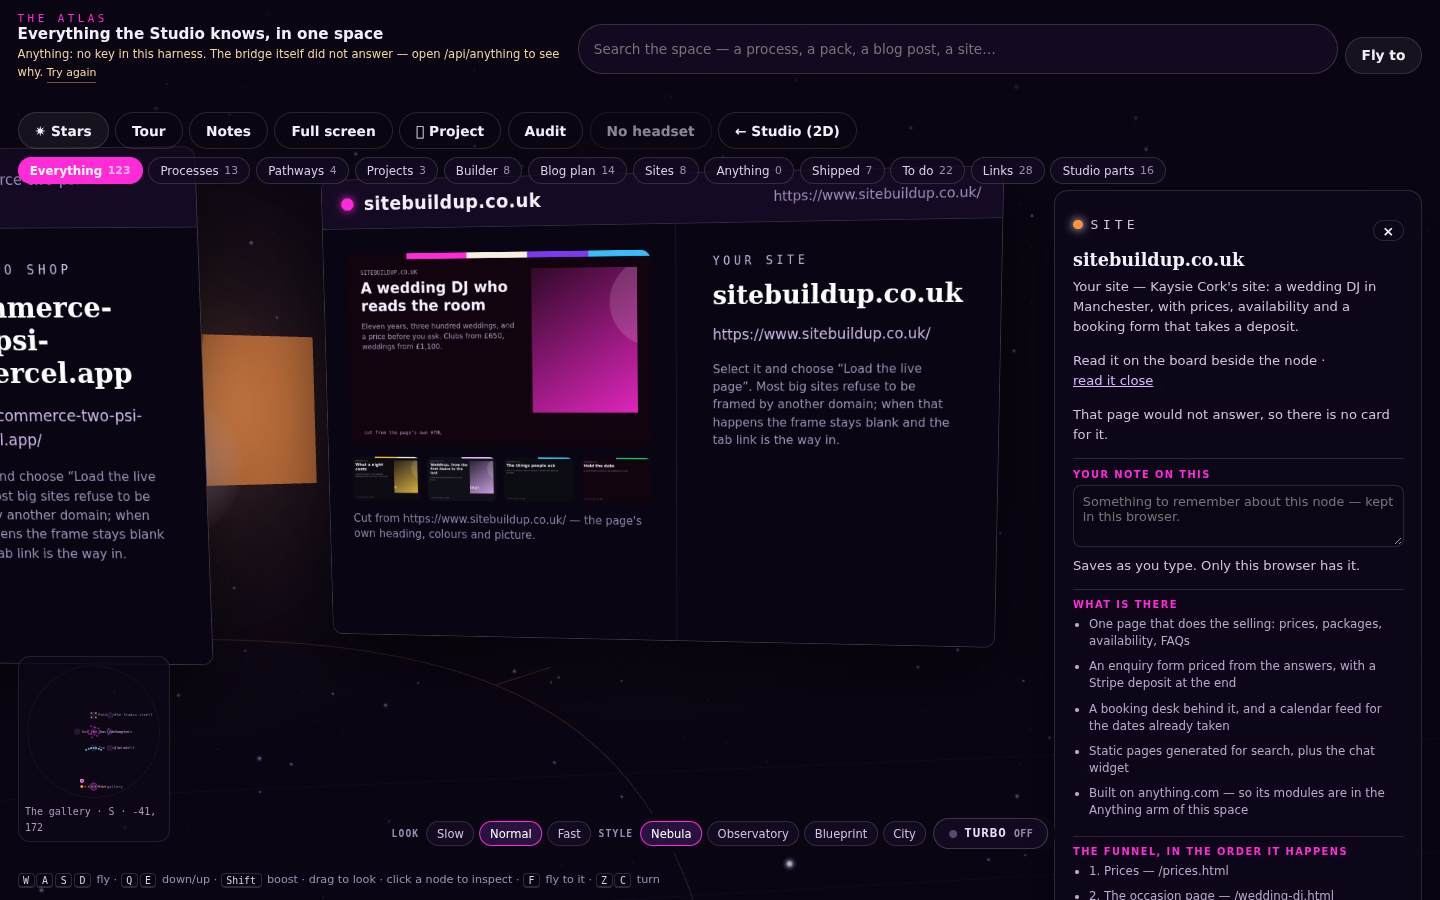
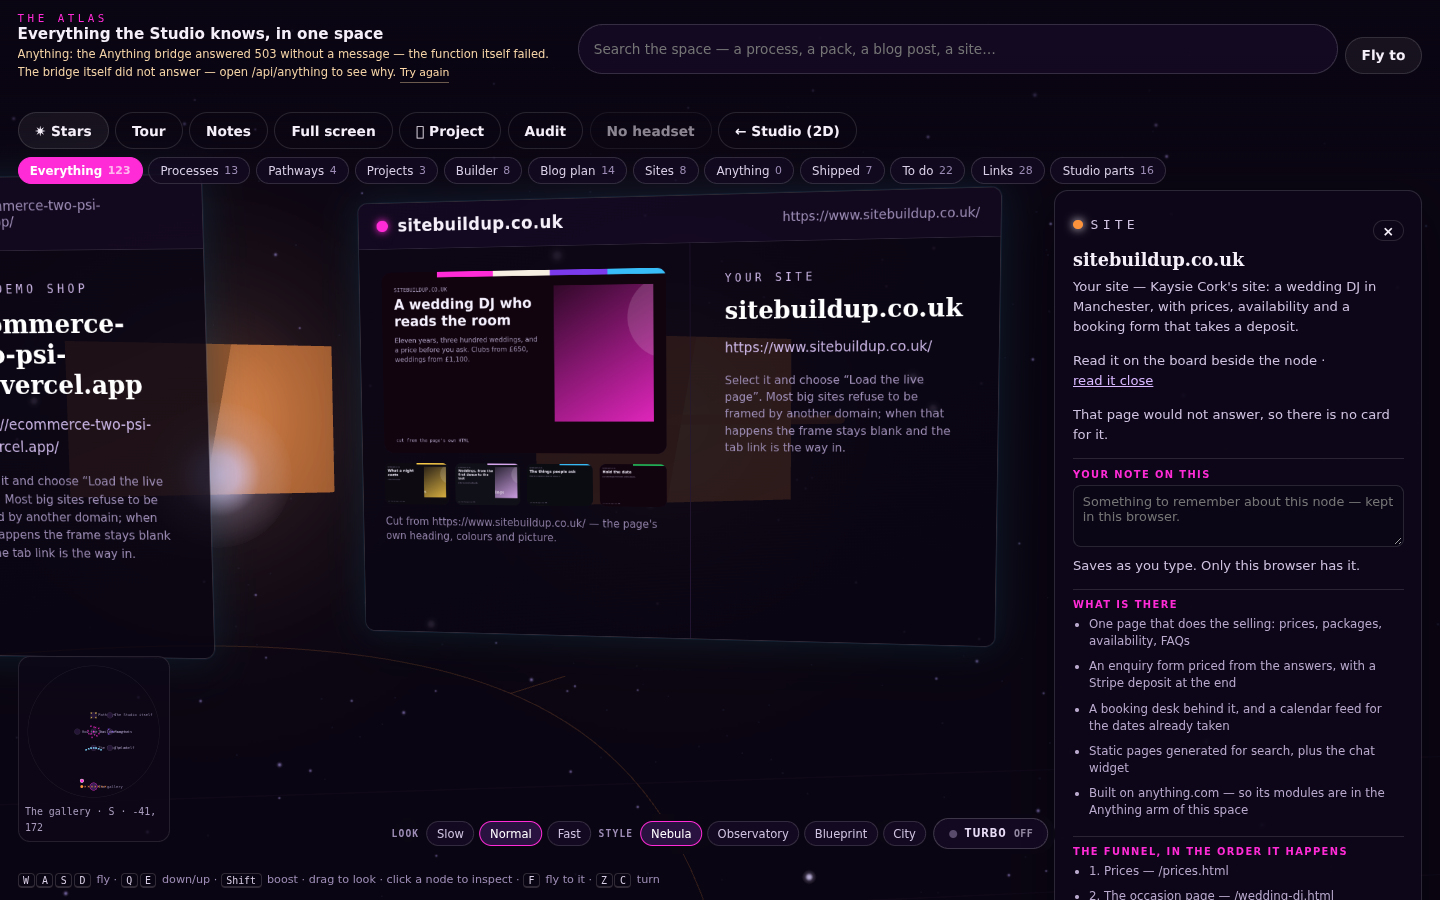
Holograms, not blocks: briefs wake with distance, panels become glass
The 14 blog-plan briefs were opaque cards drawn with depthTest off, so at any
distance they stacked into a wall of slabs in front of the stars. The gallery
panels were 93% opaque and fenced off the south arm.

- A brief is now glass: a transparent canvas with a diagonal wash, a lit rim in
  the kind's colour, depth-tested so it sits in the space instead of over it,
  and opacity that runs from 0.1 at 154 units to 1 at 34 — an outline in the
  dark until you fly up to it.
- Gallery panels are glass too: translucent frame with a cyan rim glow, and
  slightly smaller. The plate inside stays opaque on purpose: the frame is
  glass, the page is a page.
- A project's own space is dark glass over the space you came from, with a
  blurred backdrop, so opening a star reads as stepping inside it rather than
  leaving the room.

Nothing renamed, nothing moved, nothing removed. docs/atlas-holograms-2026-11-20.md
has the before and after.

diff --git a/studio/src/atlasEngine.ts b/studio/src/atlasEngine.ts
@@ -394,42 +394,67 @@ function cardSprite(node: AtlasNode) {
   const context = canvas.getContext("2d");
   if (context) {
     const accent = kindColour[node.kind];
-    context.fillStyle = "#0d1424";
-    context.fillRect(0, 0, width, height);
-    context.fillStyle = accent;
-    context.fillRect(0, 0, 12, height);
-    context.strokeStyle = "#ffffff2e";
+    /* A hologram, not a card: the glass is mostly void, the rim carries the
+       colour, and the words sit in the air. A brief used to be an opaque slab,
+       which at any distance read as a block pasted over the sky — the space is
+       made of light, so its paper should be too. */
+    context.clearRect(0, 0, width, height);
+    const glass = context.createLinearGradient(0, 0, width, height);
+    glass.addColorStop(0, "rgba(24,38,66,0.52)");
+    glass.addColorStop(1, "rgba(9,13,26,0.22)");
+    context.beginPath();
+    if (typeof context.roundRect === "function") context.roundRect(3, 3, width - 6, height - 6, 18);
+    else context.rect(3, 3, width - 6, height - 6);
+    context.fillStyle = glass;
+    context.fill();
+
+    /* The rim: a lit edge with a soft halo, which is what makes it read as an
+       object floating rather than a rectangle drawn. */
+    context.shadowColor = accent;
+    context.shadowBlur = 28;
+    context.strokeStyle = `${accent}cc`;
     context.lineWidth = 3;
-    context.strokeRect(1.5, 1.5, width - 3, height - 3);
+    context.stroke();
+    context.shadowBlur = 0;
+    context.strokeStyle = "#ffffff1f";
+    context.lineWidth = 1;
+    context.stroke();
 
     context.fillStyle = accent;
-    context.font = "600 20px 'IBM Plex Mono', monospace";
-    context.fillText(`${node.kind.toUpperCase()} · ${(node.bullets[0] ?? "").toUpperCase()}`, 40, 56);
+    context.fillRect(26, 44, 4, height - 92);
 
-    context.fillStyle = "#ffffff";
-    context.font = "700 38px Manrope, system-ui, sans-serif";
+    context.fillStyle = accent;
+    context.font = "600 19px 'IBM Plex Mono', monospace";
+    context.fillText(`${node.kind.toUpperCase()} · ${(node.bullets[0] ?? "").toUpperCase()}`, 46, 60);
+
+    context.fillStyle = "#ffffffee";
+    context.font = "700 37px Manrope, system-ui, sans-serif";
     const words = node.label.split(" ");
     const lines: string[] = [];
     let line = "";
     for (const word of words) {
-      if ((line + " " + word).trim().length > 26 && line) {
+      if ((line + " " + word).trim().length > 24 && line) {
         lines.push(line.trim());
         line = word;
       } else line = `${line} ${word}`.trim();
     }
     if (line) lines.push(line);
-    lines.slice(0, 4).forEach((entry, index) => context.fillText(entry, 40, 122 + index * 44));
+    lines.slice(0, 4).forEach((entry, index) => context.fillText(entry, 46, 126 + index * 42));
 
-    context.fillStyle = "#9fb3c8";
-    context.font = "500 21px Manrope, system-ui, sans-serif";
-    const sub = node.line.split(" ").slice(0, 11).join(" ");
-    context.fillText(sub, 40, height - 52);
+    context.fillStyle = "#9fb3c8dd";
+    context.font = "500 20px Manrope, system-ui, sans-serif";
+    const sub = node.line.split(" ").slice(0, 10).join(" ");
+    context.fillText(sub, 46, height - 46);
   }
   const texture = new THREE.CanvasTexture(canvas);
   texture.colorSpace = THREE.SRGBColorSpace;
   texture.minFilter = THREE.LinearFilter;
-  const sprite = new THREE.Sprite(new THREE.SpriteMaterial({ map: texture, transparent: true, depthTest: false }));
-  sprite.scale.set(4.6, 2.6, 1);
+  /* Depth-tested but not depth-written: a hologram behind a star is behind it,
+     and two holograms never punch holes in each other. */
+  const sprite = new THREE.Sprite(
+    new THREE.SpriteMaterial({ map: texture, transparent: true, depthWrite: false, depthTest: true })
+  );
+  sprite.scale.set(4.4, 2.48, 1);
   return sprite;
 }
 
@@ -1237,7 +1262,7 @@ export class AtlasEngine {
       const curve = Math.PI + clamp(node.position[0] / 260, -0.22, 0.22);
       object.position.set(node.position[0], node.position[1], node.position[2] - 8);
       object.rotation.set(0, curve, 0);
-      object.scale.setScalar(0.012);
+      object.scale.setScalar(0.0114);
       element.style.pointerEvents = "none";
       this.scene.add(object);
     }
@@ -1946,6 +1971,12 @@ export class AtlasEngine {
       const away = world.distanceTo(this.rig.position);
       const factor = clamp(away / 42, 0.55, 1.9);
       card.sprite.scale.set(card.base.x * factor, card.base.y * factor, 1);
+      /* A brief is a hologram that wakes as you approach: readable when you are
+         near it, and at a distance only a lit edge in the dark. Fourteen slabs of
+         text at two hundred metres is a wall, not a plan, and a wall is the one
+         thing this space must never be. */
+      const material = card.sprite.material as THREE.SpriteMaterial;
+      material.opacity = clamp(1 - (away - 34) / 120, 0.1, 1);
     }
 
     /* Stars turn slowly and breathe; edges fade with distance so the far side of

diff --git a/studio/src/styles.css b/studio/src/styles.css
@@ -270,11 +270,13 @@ button.btn, a.btn {
   pointer-events: auto;
   display: flex;
   flex-direction: column;
-  background: #0f0719ee;
-  border: 1px solid #ffffff2e;
+  /* Glass, not a slab: the space is made of light, so the screens in it are lit
+     edges and dark air. What stays solid is the plate — the page itself. */
+  background: linear-gradient(158deg, #10091cb8, #08041099);
+  border: 1px solid #ffffff24;
   border-radius: 14px;
   overflow: hidden;
-  box-shadow: 0 30px 80px #00000080;
+  box-shadow: 0 0 0 1px #38bdf812, 0 0 52px #38bdf824, 0 26px 70px #00000066;
   font-size: 30px;
 }
 .atlas-panel-head {
@@ -282,13 +284,13 @@ button.btn, a.btn {
   align-items: center;
   gap: .5em;
   padding: .6em .9em;
-  border-bottom: 1px solid #ffffff22;
-  background: #150a24;
+  border-bottom: 1px solid #ffffff1c;
+  background: #150a2499;
 }
 .atlas-panel-head .dot { width: .55em; height: .55em; border-radius: 50%; background: var(--pink); box-shadow: 0 0 12px var(--pink); }
 .atlas-panel-head strong { font-size: .8em; letter-spacing: .02em; }
 .atlas-panel-head .atlas-panel-url { margin-left: auto; font-size: .58em; color: #9d8db6; }
-.atlas-panel-body { position: relative; flex: 1; display: grid; grid-template-columns: 1.15fr .85fr; align-items: stretch; background: #0a0512; }
+.atlas-panel-body { position: relative; flex: 1; display: grid; grid-template-columns: 1.15fr .85fr; align-items: stretch; background: #0a051299; }
 .atlas-panel-body iframe { width: 100%; height: 100%; border: 0; background: #fff; grid-column: 1 / -1; }
 
 /* The plate: the page's own heading, colours and picture, drawn from its HTML.
@@ -1347,10 +1349,14 @@ button.menu-toggle { display: none; }
   flex-direction: column;
   gap: .75rem;
   padding: 1rem clamp(1rem, 3vw, 2.25rem) .6rem;
+  /* The project's own space, hung over the one you came from: dark glass with
+     the stars blurred behind it, so opening a star feels like stepping inside
+     it rather than leaving the room. */
   background:
-    radial-gradient(120% 90% at 12% 0%, #2a0f3d 0%, transparent 60%),
-    radial-gradient(90% 80% at 100% 100%, #1b0b33 0%, transparent 55%),
-    var(--bg);
+    radial-gradient(120% 90% at 12% 0%, rgba(42, 15, 61, .55) 0%, transparent 60%),
+    radial-gradient(90% 80% at 100% 100%, rgba(27, 11, 51, .5) 0%, transparent 55%),
+    rgba(6, 3, 12, .86);
+  backdrop-filter: blur(7px);
   overflow: auto;
 }
 .space-head { display: flex; align-items: flex-start; justify-content: space-between; gap: 1rem; flex-wrap: wrap; }
@@ -1395,8 +1401,14 @@ button.menu-toggle { display: none; }
 .space-edge.live { stroke: var(--pink); stroke-width: .007; opacity: .85; }
 .space-edge.touched { opacity: 1; stroke-width: .011; }
 .space-node { cursor: pointer; }
-.space-node circle { fill: #1c0f2e; stroke: var(--violet); stroke-width: .007; transition: fill .15s, stroke-width .15s; }
-.space-node.hub circle { fill: var(--pink); stroke: #ffd6f6; stroke-width: .006; }
+.space-node circle {
+  fill: #1c0f2e;
+  stroke: var(--violet);
+  stroke-width: .007;
+  transition: fill .15s, stroke-width .15s;
+  filter: drop-shadow(0 0 3px rgba(124, 58, 237, .55));
+}
+.space-node.hub circle { fill: var(--pink); stroke: #ffd6f6; stroke-width: .006; filter: drop-shadow(0 0 7px rgba(255, 43, 214, .8)); }
 .space-node.read circle { fill: var(--violet); stroke: #fff; }
 .space-node.failed circle { stroke: var(--bad); stroke-dasharray: .012 .012; }
 .space-node.reading circle { animation: space-pulse 1.1s ease-in-out infinite; }

diff --git a/docs/atlas-holograms-2026-11-20.md b/docs/atlas-holograms-2026-11-20.md
@@ -1,0 +1,71 @@
+# Holograms, not blocks
+
+*20 November 2026. Why the space had started to look like a wall of slabs, and what was changed.*
+
+## What was wrong
+
+The 14 entries of the blog plan are `brief` nodes, and a brief was drawn as an
+**opaque card**: a filled rectangle with `depthTest: false`, so it was painted
+over everything else in the frame. Fourteen of those, seen from the library,
+added up to a grid of dark slabs floating in front of the stars. The stars
+themselves were fine — the briefs had turned into the loudest thing on screen,
+and they read as blocks pasted onto the space rather than objects in it.
+
+The gallery panels had a milder version of the same problem. Their backgrounds
+were 93% opaque, so a row of eight of them, seen from the south arm, was a fence
+between you and the stars.
+
+## What a brief is now
+
+A hologram:
+
+- **Glass instead of paint** — a diagonal fade from a barely-there blue-black to
+  almost nothing, drawn over a transparent canvas, so stars show through it.
+- **A lit rim** — the kind colour as a 3px stroke with a 28px shadow behind it,
+  so the edge is what you notice at a distance, not the fill.
+- **In the space, not on the glass** — `depthTest: true`, so a brief behind a star
+  is actually behind it. Two holograms no longer punch holes in each other
+  because neither writes depth.
+- **It wakes as you approach** — opacity runs from 0.1 at 154 units to 1 at 34.
+  Far away, a brief is an outline in the dark; fly up to it and the words arrive.
+  This is the part that makes the default view read as a sky again.
+
+## What a panel is now
+
+The same idea, applied to the site screens in the gallery:
+
+- background is a translucent gradient with a cyan rim glow instead of
+  `#0f0719ee`;
+- the head and body are translucent, so the stars behind show through the frame;
+- the **plate stays opaque** — deliberately. The frame is glass; the page is a
+  page. A translucent picture of a page would be a lie about what it is;
+- sized at 0.0114 instead of 0.012, so eight panels no longer touch each other
+  at the edges of the row.
+
+## What a project's own space is now
+
+Opening a project star (or an Anything app star) still puts you inside that
+project — 9 pages for DJKC, drawn as a hub-and-spoke star map with the links read
+off the pages themselves. What changed is that it is now **dark glass over the
+space you came from**: the same gradients, at 86% instead of full, with a 7px
+backdrop blur, so the stars you were flying among are still faintly there behind
+it. The hub carries a pink glow, each page a violet one.
+
+## What this did not change
+
+No node was renamed, moved, repurposed or removed. The Atlas keeps its name, its
+stars and its menu slot. The geometry is the same geometry — only the materials
+and the distance behaviour changed.
+
+## Files
+
+- `studio/src/atlasEngine.ts` — `cardSprite()` (glass, rim, depth), the per-frame
+  opacity fade, and the panel scale.
+- `studio/src/styles.css` — `.atlas-panel`, `.atlas-panel-head`, `.atlas-panel-body`,
+  `.space`, `.space-node`.
+
+![The default view: the blog plan as faint lit edges rather than a wall of slabs](atlas-holographic-2026-11-20.png)
+
+![A project's own space, hung as dark glass over the one you came from](atlas-project-space-2026-11-20.png)
+
+![A gallery panel: glass frame, solid plate](plates-atlas-2026-11-20.png)
